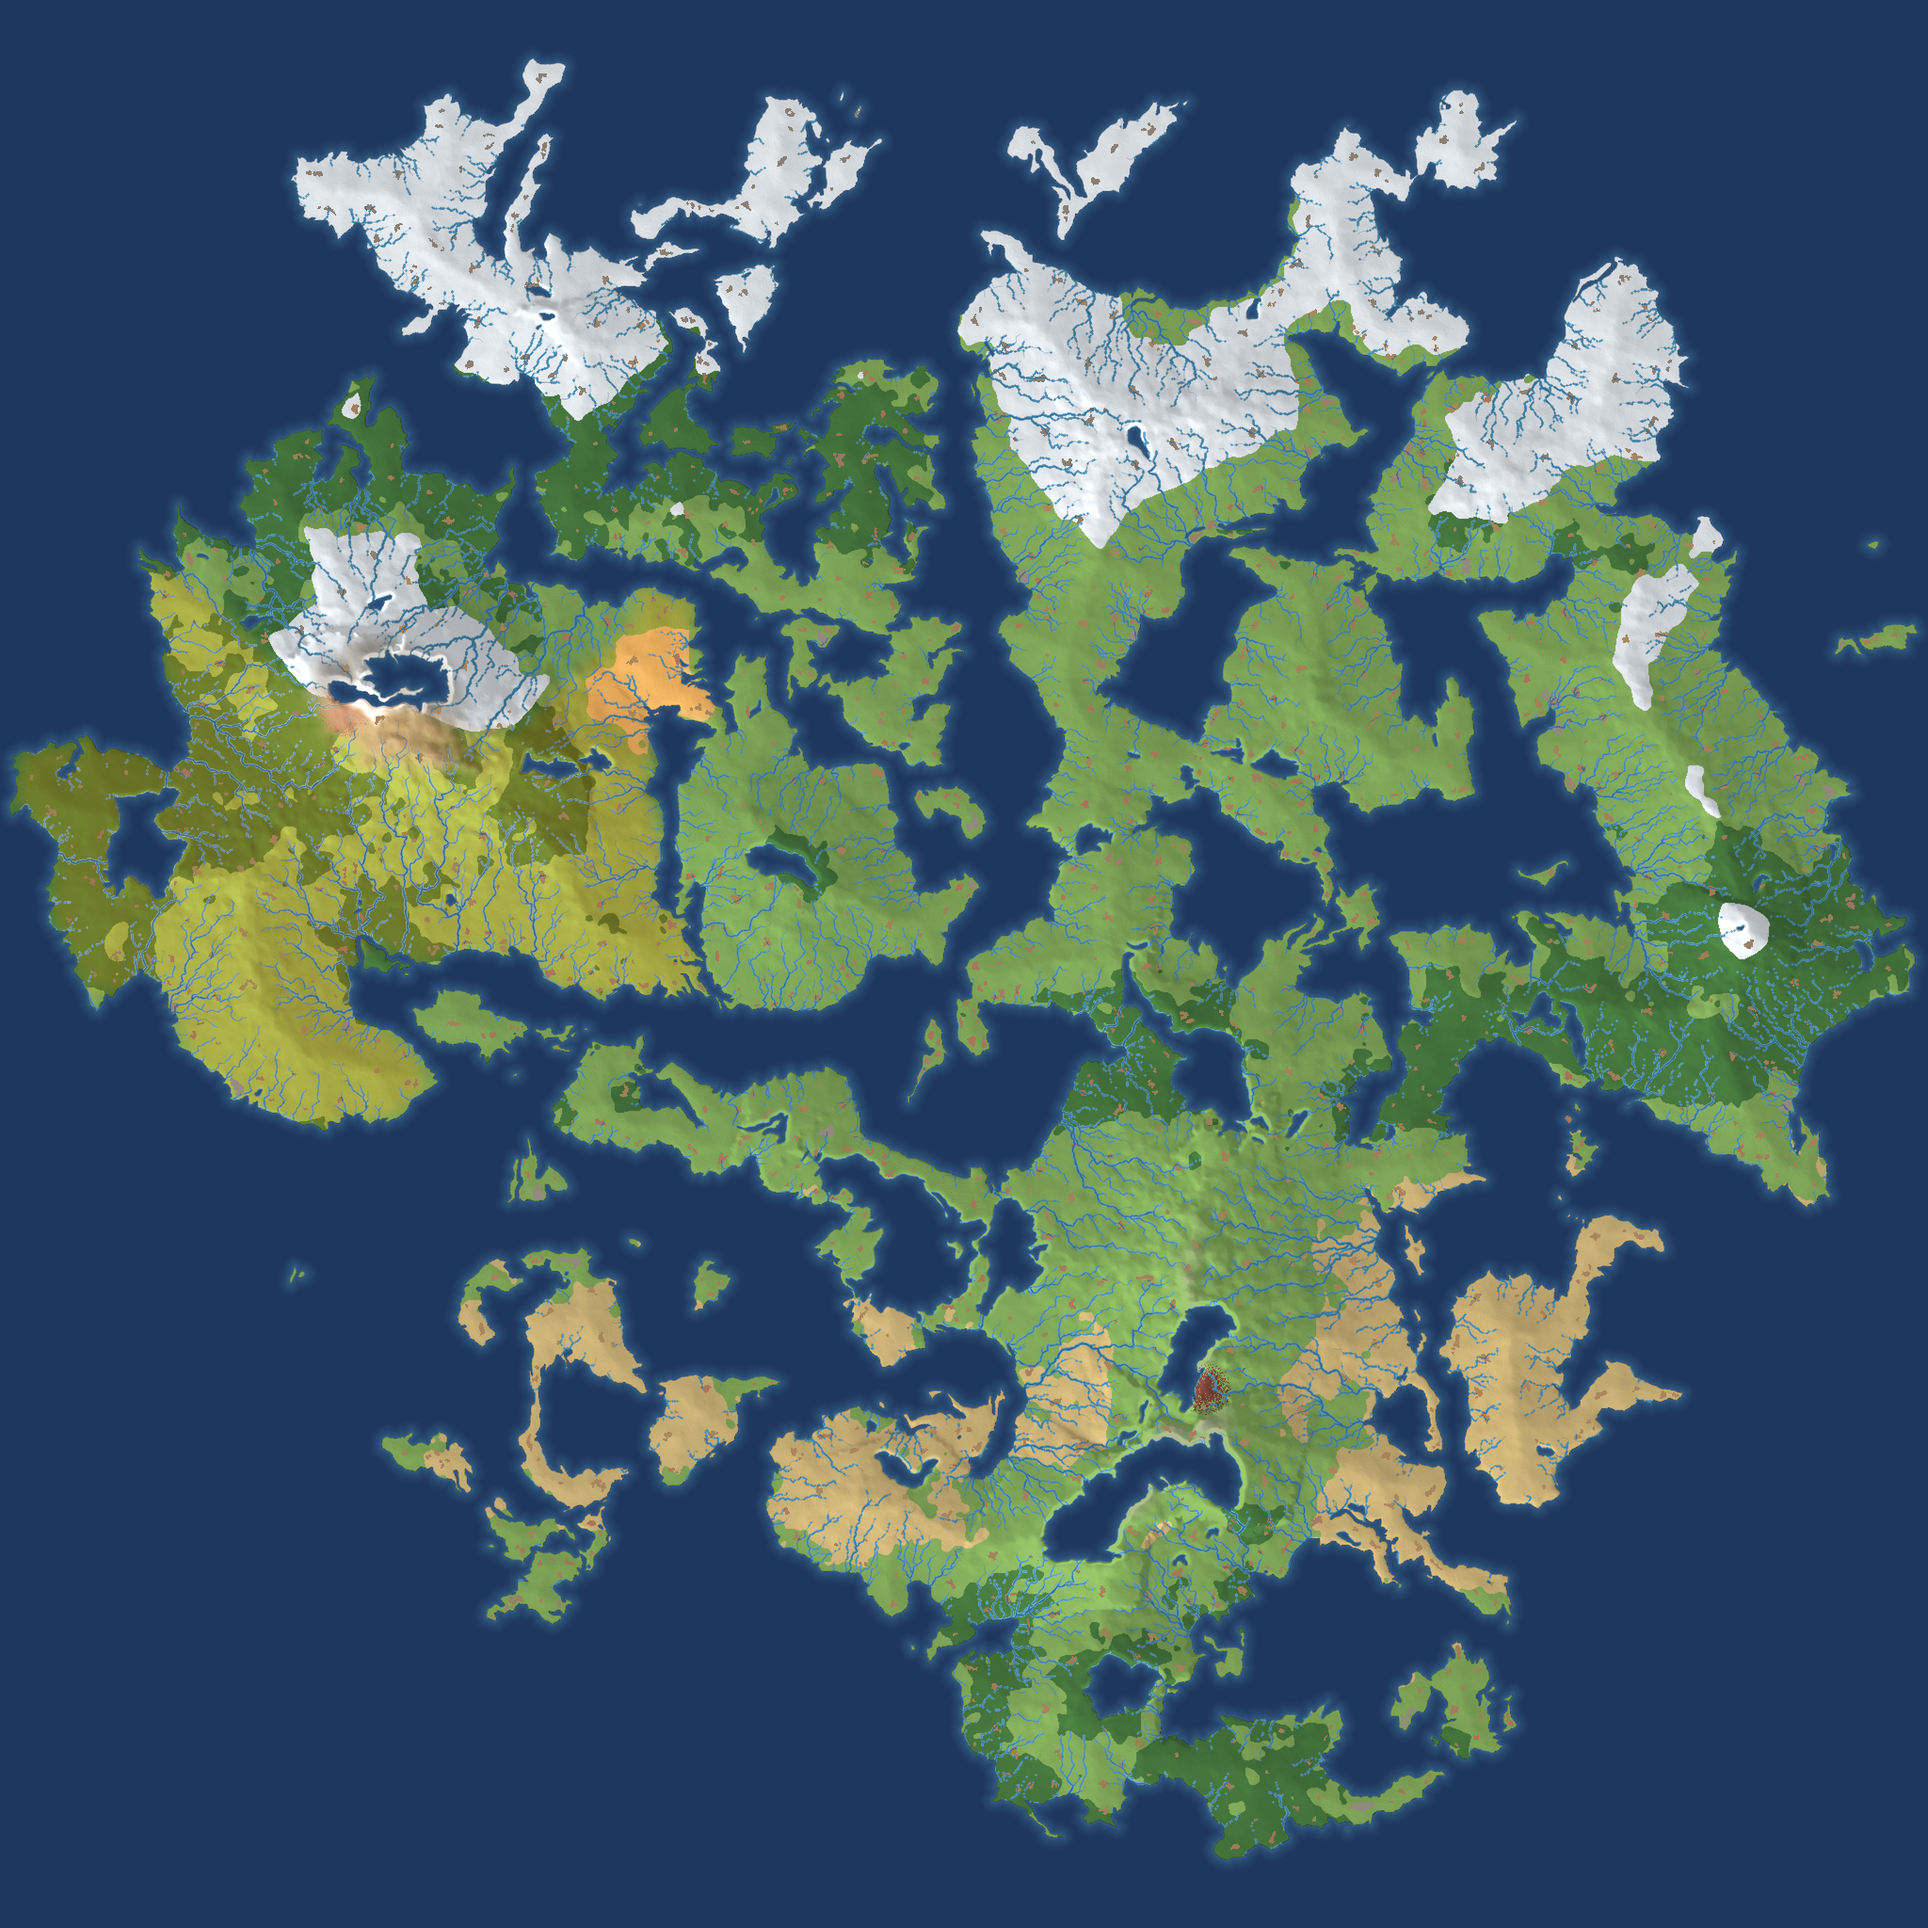
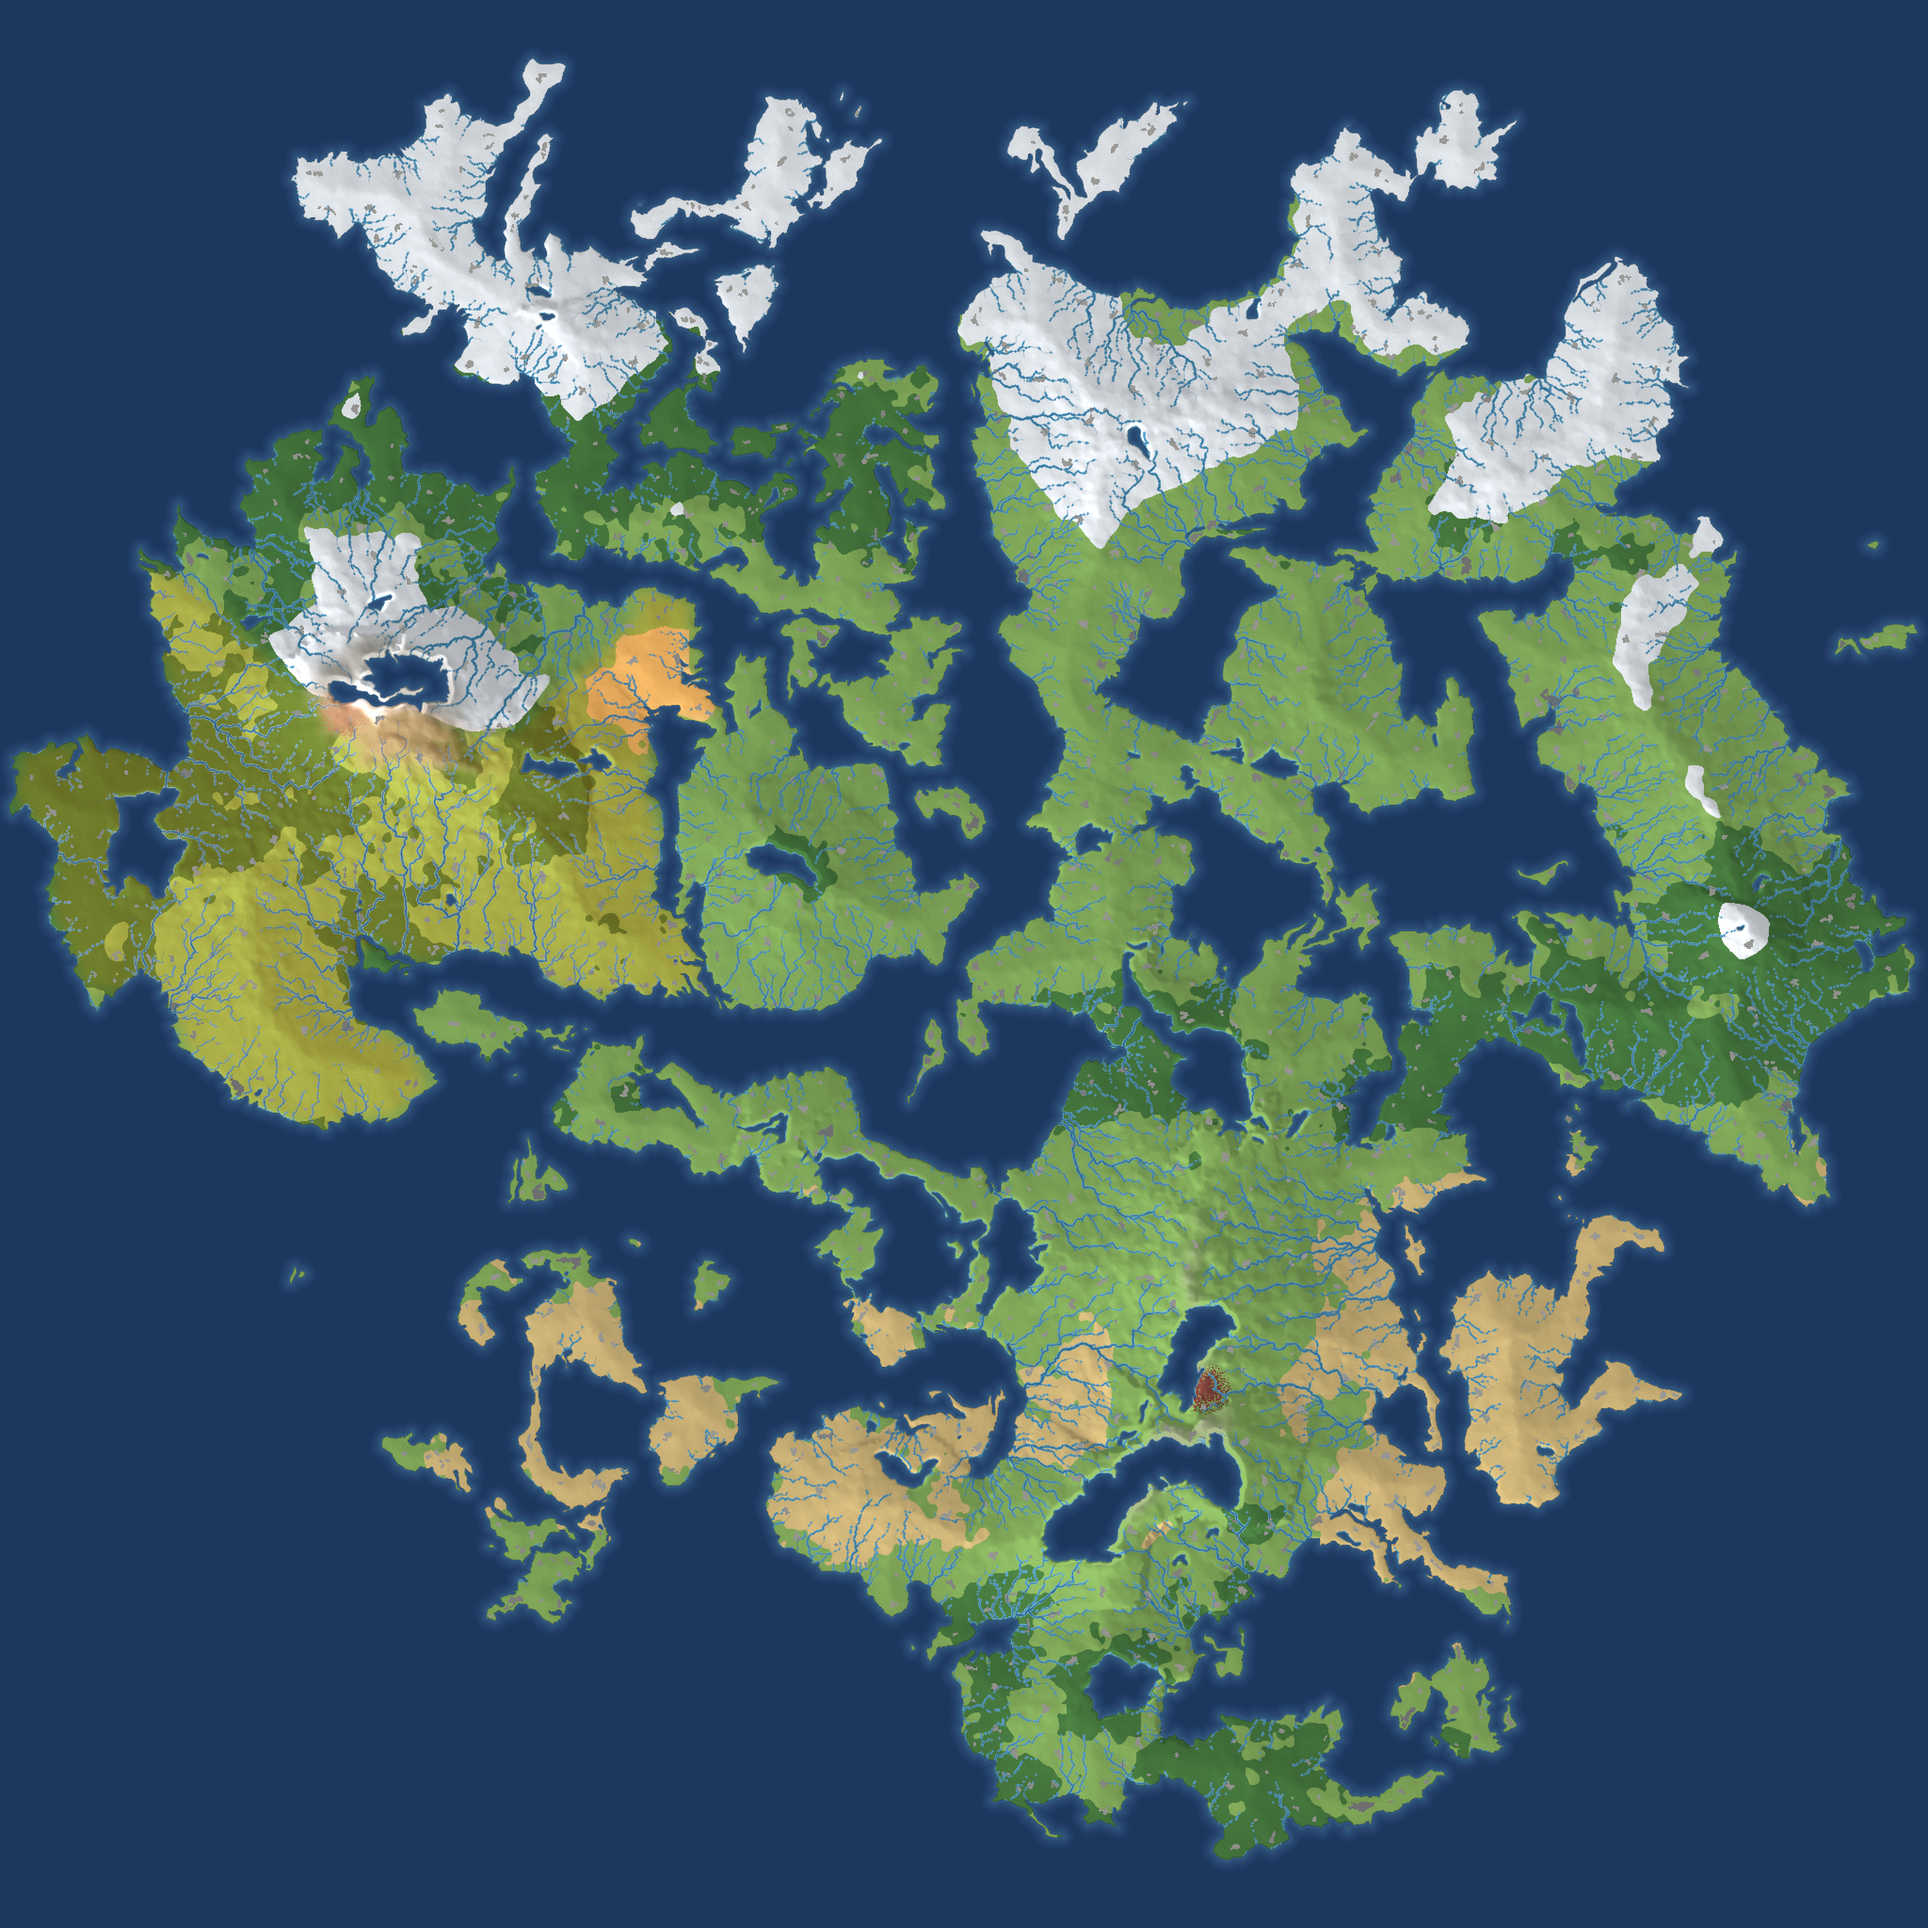
fix(worldgen): 回退河流锐化负优化（创始人 2026-09-29 指正）——unsharp 在细河高对比边缘产生白晕、二值掩膜硬画无 AA，两件全撤恢复 B2 软线；blob 端穿城河改软 alpha（bake 高斯软核/preview 块均值覆盖率）；城市剪影色定稿中性灰阶（村浅灰→镇中灰→城深灰随规模、明度随地形的 ±8%、无暖偏——暖棕/陶瓦在地图上读作铁锈，三轮指正定案）

diff --git a/tools/worldgen/l1/blob_v2_bake.py b/tools/worldgen/l1/blob_v2_bake.py
@@ -198,24 +198,14 @@ def _smoothstep(x, a, b):
 
 
 def settlement_base(ps, sc, ring_rgb=None):
-    """现实聚落屋顶色随规模插值 + 地景自适应（创始人 2026-09-29 两轮指正）：
-    村 = 土墙草顶黄棕 / 镇 = 陶瓦（柔化防锈斑感）/ 城 = 石砌暖灰；绿地上的暖棕
-    与植被绿互补；**中性高亮地形（雪）切屋顶灰斑**——雪白地上的陶瓦红读作锈渍，
-    真实雪景里的聚落 = 深色屋顶/裸地灰。判据 = 环带均值 RGB 的亮度 × 饱和度
-    （雪=高亮低饱和；沙漠暖坦饱和度高不触发，走土色明度耦合）。"""
-    v = np.asarray(sc.get("village", [166, 130, 90]), np.float32)
-    t = np.asarray(sc.get("town", [170, 117, 89]), np.float32)
-    c = np.asarray(sc.get("city", [148, 138, 128]), np.float32)
+    """城市剪影 = 中性灰阶石砌色随规模加深（创始人 2026-09-29 三轮指正后的定案：
+    村浅灰 → 镇中灰 → 城深灰，**无任何暖偏**——暖棕/陶瓦在地图上读作铁锈）。
+    地形只走明度耦合（lum_gain，derive_base_color 内），不做色相自适应。"""
+    v = np.asarray(sc.get("village", [150, 149, 145]), np.float32)
+    t = np.asarray(sc.get("town", [133, 132, 129]), np.float32)
+    c = np.asarray(sc.get("city", [112, 112, 114]), np.float32)
     base = v + (t - v) * _smoothstep(ps, 0.15, 0.45)
-    base = base + (c - base) * _smoothstep(ps, 0.45, 0.8)
-    if ring_rgb is not None:
-        mx, mn = float(ring_rgb.max()), float(ring_rgb.min())
-        lum = float(ring_rgb.mean())
-        sat = (mx - mn) / max(mx, 1.0)
-        snow_f = _smoothstep(lum, 172.0, 210.0) * (1.0 - _smoothstep(sat, 0.16, 0.32))
-        gray = np.asarray(sc.get("roof_gray", [128, 121, 113]), np.float32)
-        base = base + (gray - base) * (snow_f * 0.85)
-    return base
+    return base + (c - base) * _smoothstep(ps, 0.45, 0.8)
 
 
 def derive_base_color(terrain_img, ax, ay, r_in, r_out, bake_p, ps=0.0, valid=None):
@@ -521,17 +511,19 @@ def bake_pack(pack_dir, geoms, lv_bands, gamma, bake_p, terrain_img,
             n_draw += 1
     # 河从城上过（创始人 2026-09-29）：场已不剔河（城跨河连续不切开），贴图端
     # 把河在城像素上重描——否则城贴图盖住地形河线。逐档层都描（运行时三层叠放，
-    # 只描 low 会被上层建成区盖掉）
+    # 只描 low 会被上层建成区盖掉）。alpha 用高斯软核覆盖率（AA，无硬边锯齿）
     if river8 is not None:
         ox_i, oy_i = int(ox), int(oy)
         rv = river8[oy_i:oy_i + H, ox_i:ox_i + W]
         if rv.any():
+            ra = ndi.gaussian_filter(rv.astype(np.float32), sigma=0.9)
+            alpha = np.clip((ra - 0.35) / 0.35, 0.0, 1.0)
             for t in TIERS:
                 arr = np.asarray(canvases[t]).copy()
-                draw = rv & (arr[..., 3] > 0)
-                if draw.any():
+                w = alpha * (arr[..., 3] > 0)
+                if (w > 0).any():
                     f = arr[..., :3].astype(np.float32)
-                    f[draw] = f[draw] * 0.3 + np.array([46.0, 102.0, 140.0]) * 0.7
+                    f[:] = f * (1.0 - w[..., None] * 0.7)                         + np.array([46.0, 102.0, 140.0]) * (w[..., None] * 0.7)
                     arr[..., :3] = f.astype(np.uint8)
                     canvases[t] = Image.fromarray(arr)
     for t in TIERS:

diff --git a/tools/worldgen/l1/blob_v2_generate.py b/tools/worldgen/l1/blob_v2_generate.py
@@ -910,9 +910,8 @@ def render_fractal(db_rows, eps_list, outlines):
 
 
 def _settlement_base(ps, sc, ring_rgb=None):
-    """现实聚落屋顶色随规模插值 + 地景自适应（与 blob_v2_bake.settlement_base
-    同式同参）：村土棕 / 镇陶瓦（柔化）/ 城石灰；中性高亮（雪）切屋顶灰斑
-    （雪上陶瓦红读作锈渍——创始人 2026-09-29）。"""
+    """城市剪影 = 中性灰阶石砌色随规模加深（与 blob_v2_bake.settlement_base
+    同式同参，无暖偏无色相自适应——见 bake 端 docstring）。"""
 
     def ss(x, a, b):
         if b <= a:
@@ -920,19 +919,11 @@ def _settlement_base(ps, sc, ring_rgb=None):
         u = min(1.0, max(0.0, (x - a) / (b - a)))
         return u * u * (3.0 - 2.0 * u)
 
-    v = np.asarray(sc.get("village", [166, 130, 90]), np.float32)
-    t = np.asarray(sc.get("town", [170, 117, 89]), np.float32)
-    c = np.asarray(sc.get("city", [148, 138, 128]), np.float32)
+    v = np.asarray(sc.get("village", [150, 149, 145]), np.float32)
+    t = np.asarray(sc.get("town", [133, 132, 129]), np.float32)
+    c = np.asarray(sc.get("city", [112, 112, 114]), np.float32)
     base = v + (t - v) * ss(ps, 0.15, 0.45)
-    base = base + (c - base) * ss(ps, 0.45, 0.8)
-    if ring_rgb is not None:
-        mx, mn = float(ring_rgb.max()), float(ring_rgb.min())
-        lum = float(ring_rgb.mean())
-        sat = (mx - mn) / max(mx, 1.0)
-        snow_f = ss(lum, 172.0, 210.0) * (1.0 - ss(sat, 0.16, 0.32))
-        gray = np.asarray(sc.get("roof_gray", [128, 121, 113]), np.float32)
-        base = base + (gray - base) * (snow_f * 0.85)
-    return base
+    return base + (c - base) * ss(ps, 0.45, 0.8)
 
 
 def _ring_fill(terrain_img, ax, ay, r_in, r_out, ps, sc, valid=None):
@@ -999,16 +990,16 @@ def render_overview(ctx, cities_order, results):
                 dr.polygon(pts, fill=fill)
                 n += 1
     # 河从城上过（创始人 2026-09-29）：场已不剔河（城跨河连续），预览端把河
-    # 在城像素上重描——river & 城覆盖（与底图逐像素 diff 即城掩膜）
+    # 在城像素上重描——覆盖率用 4x 块均值（天然 AA 无锯齿），城掩膜 = 与底图逐像素 diff
     out = np.asarray(img.convert("RGB"), dtype=np.uint8).copy()
     changed = (out != base_arr).any(axis=2)
     rv = ctx.get("river")
     if rv is not None and changed.any():
-        r4 = rv.reshape(out.shape[0], 4, out.shape[1], 4).any(axis=(1, 3))
-        draw = r4 & changed
-        if draw.any():
-            out[draw] = (out[draw].astype(np.float32) * 0.3
-                         + np.array([46.0, 102.0, 140.0]) * 0.7).astype(np.uint8)
+        cov = rv.reshape(out.shape[0], 4, out.shape[1], 4).mean(axis=(1, 3))
+        w = np.clip(cov * 1.6, 0.0, 1.0) * changed * 0.7
+        f = out.astype(np.float32)
+        f[:] = f * (1.0 - w[..., None]) + np.array([46.0, 102.0, 140.0]) * w[..., None]
+        out = f.astype(np.uint8)
     path = os.path.join(BLOB_V2_DIR, "blob_v2_preview_2048.png")
     Image.fromarray(out).save(path)
     print("  %s（%d 个多边形）" % (path, n))

diff --git a/tools/worldgen/l1/l1_terrain_bake.py b/tools/worldgen/l1/l1_terrain_bake.py
@@ -40,8 +40,8 @@ import sys
 import time
 
 import numpy as np
-from scipy.ndimage import gaussian_filter, binary_dilation
-from PIL import Image, ImageDraw, ImageFilter
+from scipy.ndimage import gaussian_filter
+from PIL import Image, ImageDraw
 
 HERE = os.path.dirname(os.path.abspath(__file__))
 L3_DIR = os.path.join(os.path.dirname(HERE), "l3")
@@ -78,27 +78,6 @@ def list_packs():
         if os.path.isfile(jp):
             packs.append((jp, name))
     return packs
-
-
-def post_river_sharpen(rgb, sl, fields, colors, lp):
-    """河流锐线 + 整图轻度锐化（创始人 2026-09-29：河流放大清晰度低、Tab 尺度
-    地形发虚）——软化河床之上按原始 8192 掩膜叠核心线（1px 外扩保细河），
-    再 UnsharpMask 提细节；travel 变体在道路层之下同样生效。"""
-    if lp.get("river_crisp", True):
-        rv = fields["river"][sl] & fields["land"][sl] & (~fields["lake"][sl])
-        if rv.any():
-            core = binary_dilation(rv, iterations=1)
-            f = rgb.astype(np.float32)
-            f[core] = f[core] * 0.25 + np.asarray(colors["river"], np.float32) * 0.75
-            rgb = np.clip(f, 0.0, 255.0).astype(np.uint8)
-    us = lp.get("unsharp")
-    if us:
-        rgb = np.asarray(Image.fromarray(rgb).filter(
-            ImageFilter.UnsharpMask(radius=float(us.get("radius", 1.4)),
-                                    percent=int(us.get("percent", 55)),
-                                    threshold=int(us.get("threshold", 2)))),
-                        dtype=np.uint8)
-    return rgb
 
 
 def render_window(sl, fields, colors, blend_sigma):
@@ -165,7 +144,6 @@ def bake_pack(json_path, fields, colors, lp, texture_name):
         return False
     sl = (slice(y0, y0 + side), slice(x0, x0 + side))
     rgb = render_window(sl, fields, colors, lp["biome_blend_sigma"])
-    rgb = post_river_sharpen(rgb, sl, fields, colors, lp)
     out = os.path.join(os.path.dirname(json_path), texture_name)
     Image.fromarray(rgb).save(out)
     print("  %s: %d² @ (%d,%d) -> %.1f MB" % (
@@ -309,7 +287,6 @@ def bake_travel_pack(json_path, fields, colors, lp, tp, v2_roads):
         return False
     sl = (slice(y0, y0 + side), slice(x0, x0 + side))
     rgb = render_window(sl, fields, colors, lp["biome_blend_sigma"])
-    rgb = post_river_sharpen(rgb, sl, fields, colors, lp)
     base = Image.fromarray(rgb).convert("RGBA")
     ss = int(tp["ss"])
     layer = draw_road_layer(side, x0, y0, v2_roads, fields["shade"][sl], tp)

diff --git a/docs/images/v2_rebake/README.md b/docs/images/v2_rebake/README.md
@@ -71,7 +71,7 @@
 | C2 规模谱直方图 | 先验/target/终局三系列——"上百小政权"起点形态：大量 1-3 城小国 + 少量区域大国 | `l3/state_build_v2.py` 内建 |
 | D1 河流矢量 | 注入 70 包的河流折线（贴地形、顺流向） | `l2_export/river_export.py` |
 | D2 道路网络 | 2185 条城间道路贴地形折线（绕山不走崖），跨包接缝连续；连接正常聚落（原址点不修路） | `l1/road_generate.py` |
-| E1 blob 城市剪影全图 | 城市剪影（**现行 R5 场叠加管线**——与游戏内 Tab 城区图同源；场场叠加→阈值→marching squares，建成区限自身城块内，地块不规则→形状有机多样）；**无描边，填充色 = 现实聚落屋顶色**（村土墙黄棕→镇陶瓦红棕→城石砌暖灰，随规模插值；明度随城周地形微调——色相与地形解耦防「融没」，创始人 2026-09-29）；**城跨河连续不切开，河线叠画穿城**（场剔除只剔湖不剔河，河从城上过——创始人 2026-09-29） | `l1/blob_v2_generate.py` |
+| E1 blob 城市剪影全图 | 城市剪影（**现行 R5 场叠加管线**——与游戏内 Tab 城区图同源；场场叠加→阈值→marching squares，建成区限自身城块内，形状有机多样）；**无描边，填充 = 中性灰阶石砌色**（村浅灰→镇中灰→城深灰随规模，明度随地形的 ±8%；**无暖偏**——暖棕读作铁锈，创始人 2026-09-29 三轮定案）；**城跨河连续不切开，河线带 AA 叠画穿城**（场只剔湖不剔河） | `l1/blob_v2_generate.py` |
 | E2 blob 代表城特写 | 出生城 + 代表城三档嵌套（low/mid/high 随人口切档）；档差由 submodule `blob_params.json` levels 段 + `blob_v2_params.json` 控制 | `l1/blob_v2_generate.py` |
 
 > 原 D3/D4（弧拓扑预览）已退出验收清单：渲染与 B3 同源同观感，其真正产出是矢量数据与内部指标（共享弧配对率、面积守恒）——降为管线自检（`l3/arc_topology.py`，收线时 `--write` 落地），观感以实机描边为准。
